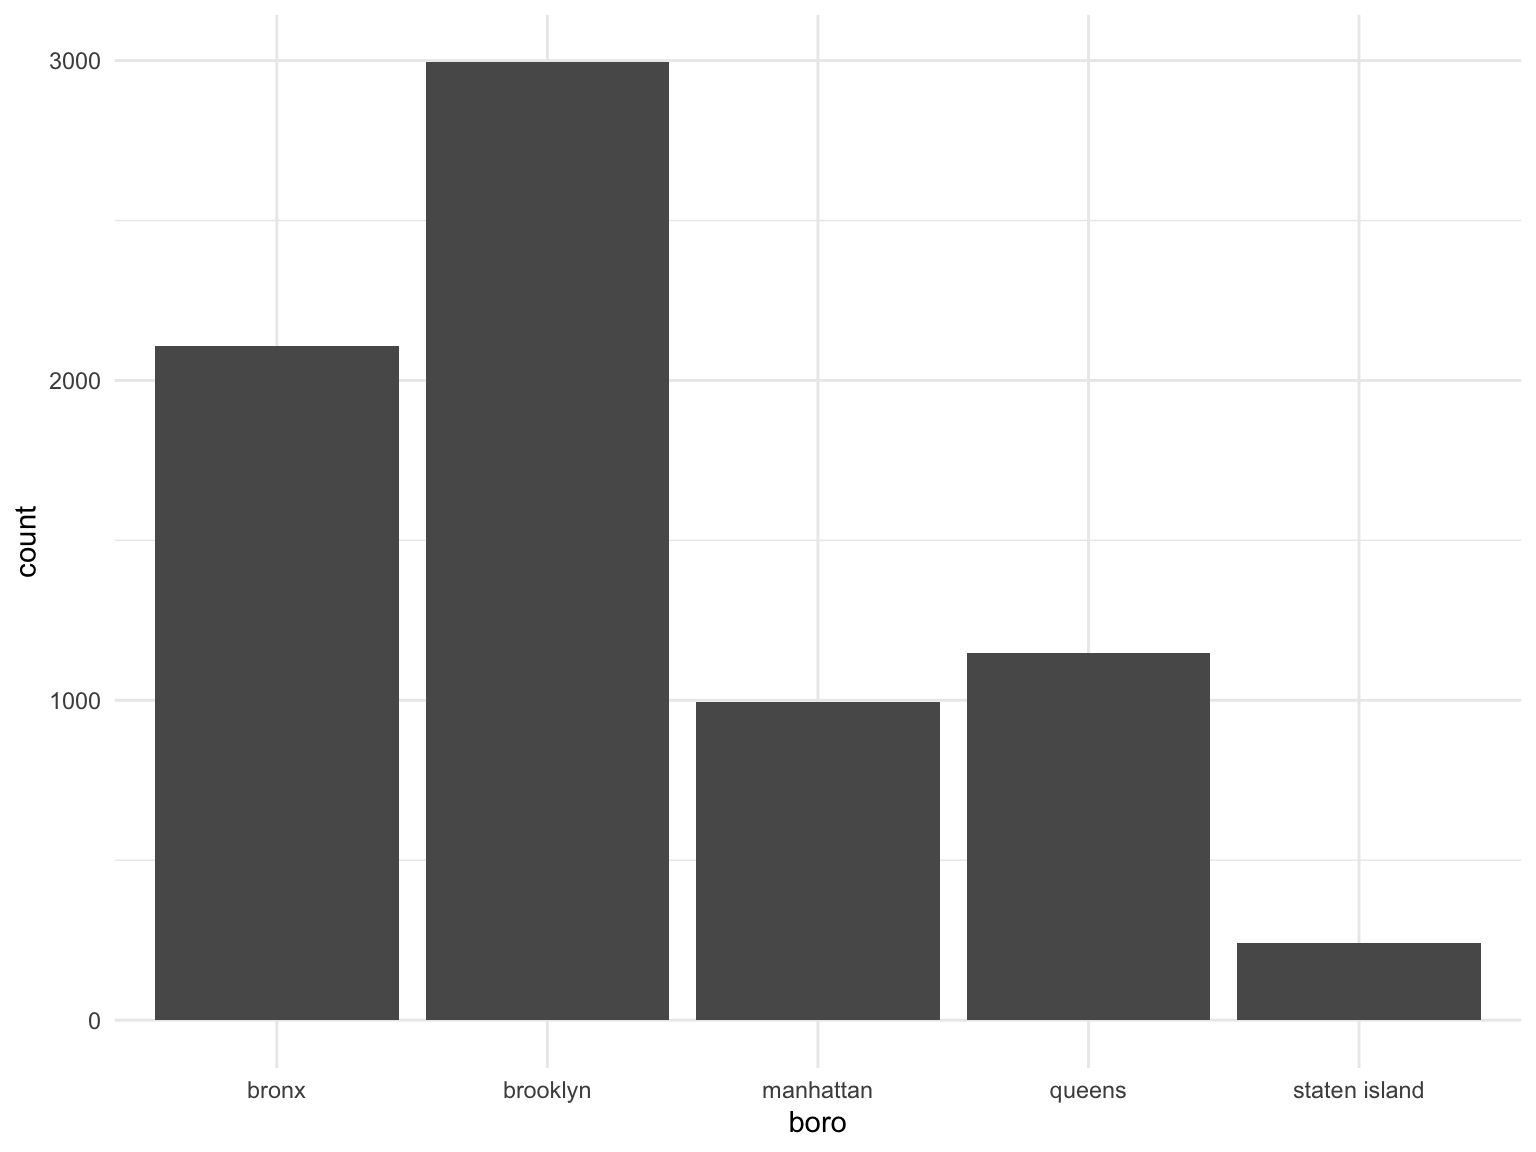
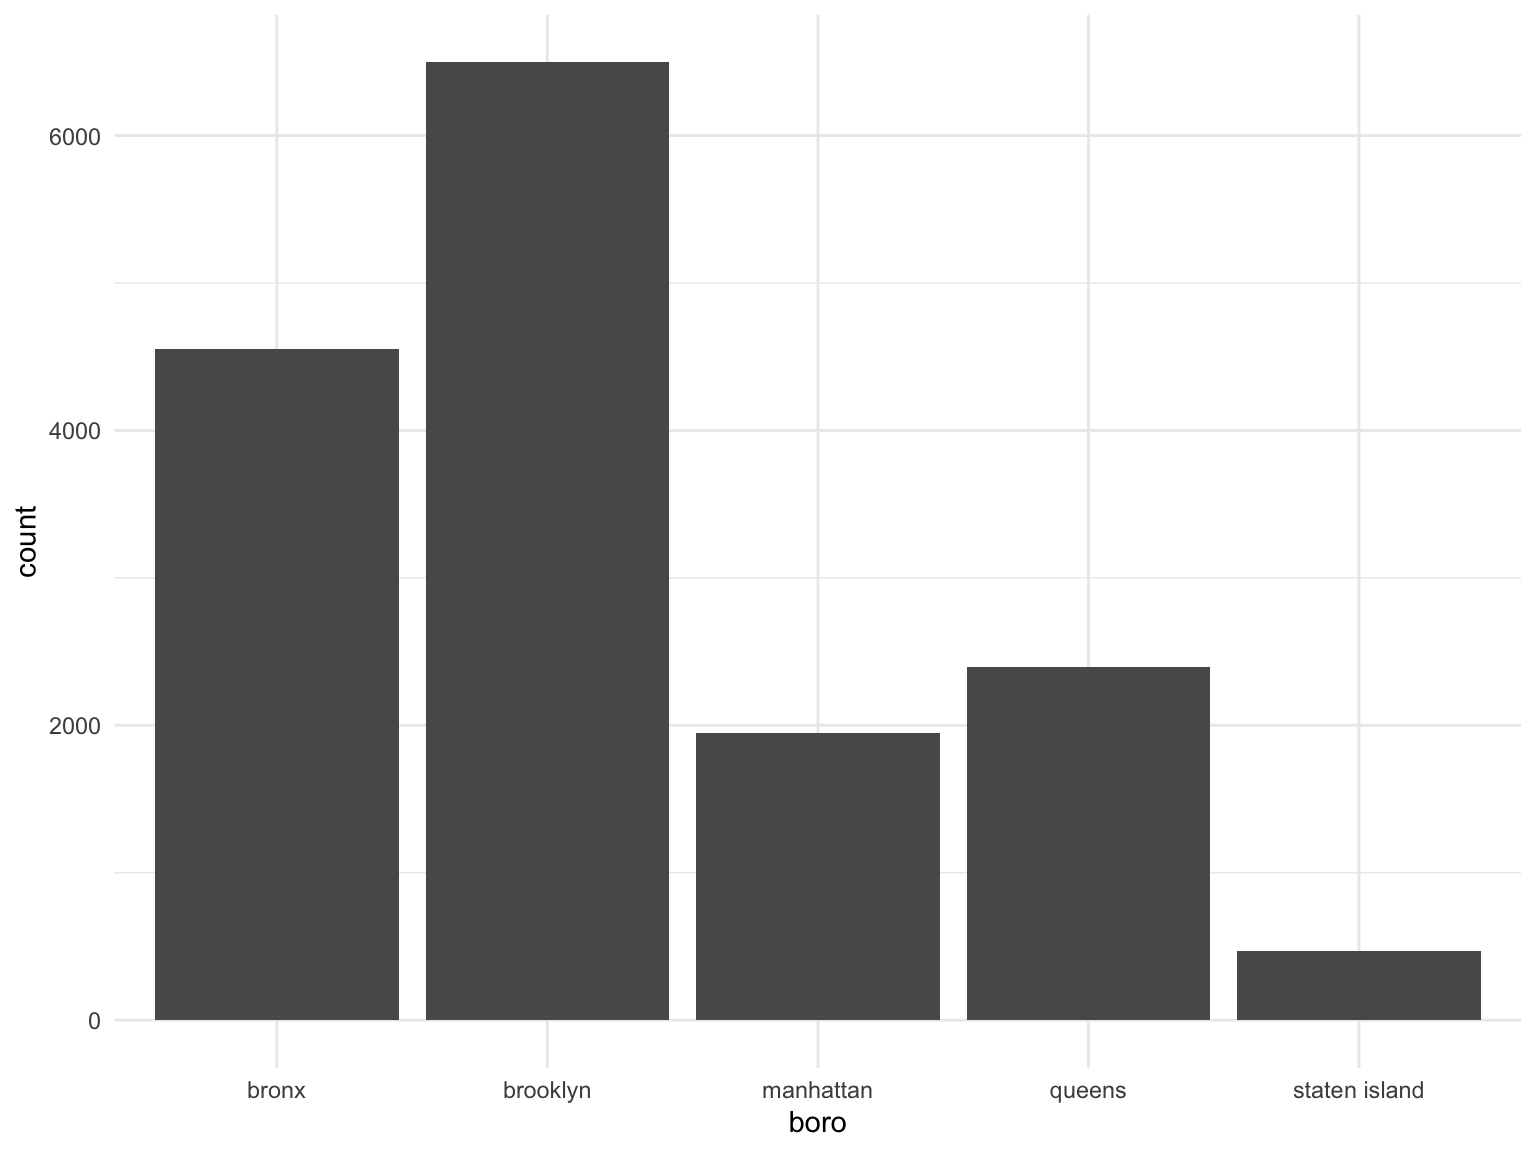
change years

diff --git a/analysis.html b/analysis.html
@@ -394,7 +394,7 @@ div.tocify {
 <p>##2015-2020 total death by year</p>
 <pre class="r"><code>year_plot = 
   data_hist %&gt;% 
-  filter(year &gt; 2014) %&gt;% 
+  filter(year &gt;= 2010) %&gt;% 
   group_by(year) %&gt;%
   mutate(count = n()) %&gt;% 
   ggplot(aes(x = year, y = count)) + 
@@ -416,7 +416,7 @@ div.tocify {
 <p>##2015-2020 total death by perpetrator’s sex</p>
 <pre class="r"><code>sex_plot = 
   data_hist %&gt;% 
-  filter(year &gt; 2014,
+  filter(year &gt;= 2010,
          perp_sex != &quot;unknown&quot;) %&gt;% 
   group_by(year, perp_sex) %&gt;%
   mutate(n = n()) %&gt;% 
@@ -439,7 +439,7 @@ race_plot</code></pre>
 <p><img src="analysis_files/figure-html/unnamed-chunk-5-1.png" width="90%" /> ##2015-2020 total death by victim’s race</p>
 <pre class="r"><code>vic_race_plot = 
   data_hist %&gt;% 
-  filter(year &gt; 2014,
+  filter(year &gt;= 2010,
          vic_race != &quot;unknown&quot;) %&gt;% 
   group_by(vic_race, vic_sex) %&gt;%
   mutate(n = n()) %&gt;% 
@@ -451,7 +451,7 @@ vic_race_plot</code></pre>
 <p>##2015-2020 total death by victim’s sex</p>
 <pre class="r"><code>vic_sex_plot = 
   data_hist %&gt;% 
-  filter(year &gt; 2014,
+  filter(year &gt;= 2010,
          vic_sex != &quot;unknown&quot;) %&gt;% 
   group_by(vic_sex) %&gt;%
   mutate(n = n()) %&gt;% 
@@ -463,7 +463,7 @@ vic_sex_plot</code></pre>
 <p>##2015-2020 total death by boro</p>
 <pre class="r"><code>boro_plot = 
   data_hist %&gt;% 
-  filter(year &gt; 2014) %&gt;% 
+  filter(year &gt;= 2010) %&gt;% 
   group_by(boro) %&gt;%
   mutate(n = n()) %&gt;% 
   ggplot(aes(x = boro, group = n)) + 
@@ -474,7 +474,7 @@ boro_plot</code></pre>
 <p>##2015-2020 total death by hour in day</p>
 <pre class="r"><code>incident_by_hour =
   data_hist %&gt;%
-  filter(year &gt; 2014) %&gt;% 
+  filter(year &gt;= 2010) %&gt;% 
   group_by(hour) %&gt;%
   mutate(n = n()) %&gt;% 
   ggplot(aes(x = hour, group = n)) + 
@@ -482,10 +482,11 @@ boro_plot</code></pre>
   facet_grid(rows = vars(boro))
   
 incident_by_hour</code></pre>
-<p><img src="analysis_files/figure-html/unnamed-chunk-9-1.png" width="90%" /> ##2015-2020 total death by jurisdiction_code</p>
+<p><img src="analysis_files/figure-html/unnamed-chunk-9-1.png" width="90%" /></p>
+<p>##2015-2020 total death by jurisdiction_code</p>
 <pre class="r"><code>jurisdiction_code =
   data_hist %&gt;%
-  filter(year &gt; 2014) %&gt;% 
+  filter(year &gt; 2010) %&gt;% 
   group_by(jurisdiction_code) %&gt;%
   mutate(n = n()) %&gt;% 
   ggplot(aes(x = jurisdiction_code, group = n)) + 
